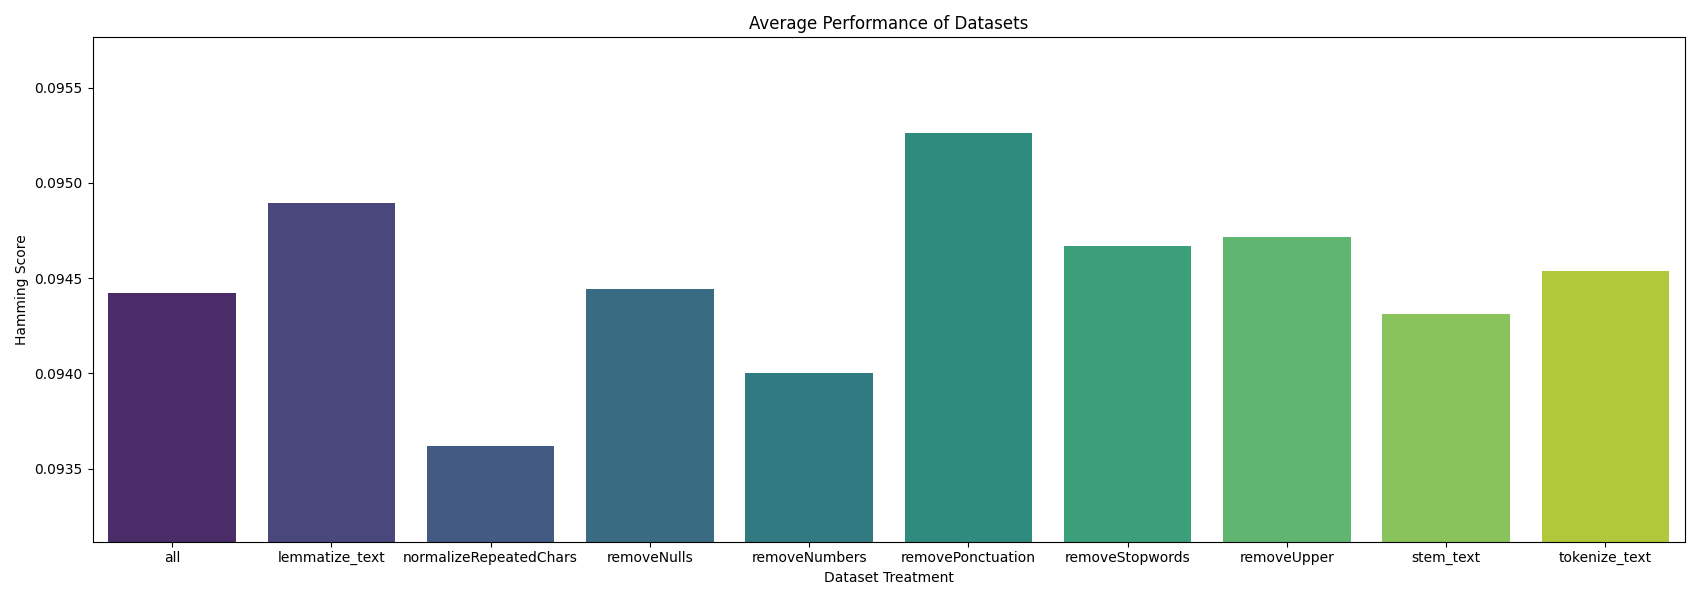
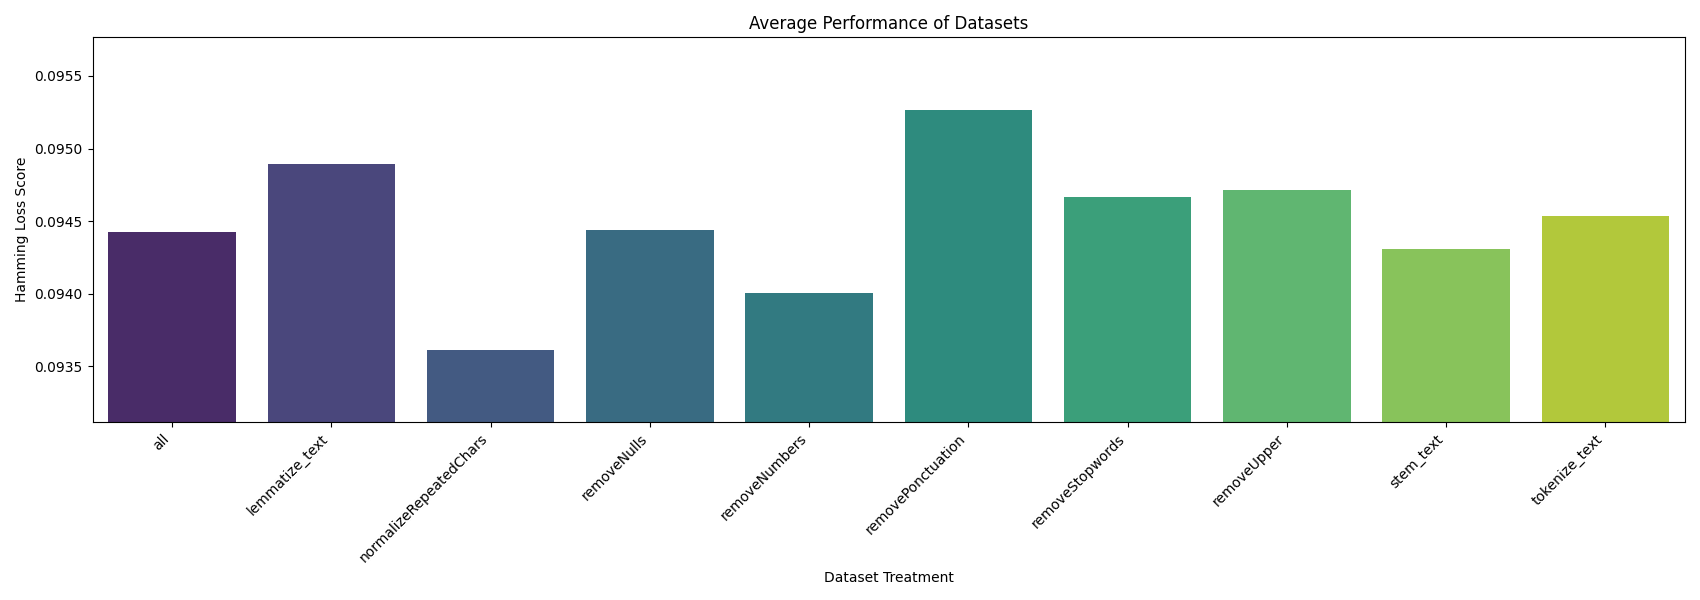
fixed labels on graphs

diff --git a/resultsAnalyse.py b/resultsAnalyse.py
@@ -134,29 +134,27 @@ def get_bar_graph_average_performance_of_datasets(df):
     plt.figure(figsize=(17, 6))
     sns.barplot(x='SAMPLING', y='HAMMING_LOSS', data=df, palette='viridis')
     plt.xlabel('Dataset Treatment')
-    plt.ylabel('Hamming Score')
+    plt.ylabel('Hamming Loss Score')
     plt.title('Average Performance of Datasets')
 
     # Set y-axis limits (lower limit set to 0.08)
-    plt.ylim(df['HAMMING_LOSS'].min()- 0.0005, df['HAMMING_LOSS'].max() + 0.00)  # Add a small margin to the upper limit
-
+    plt.ylim(df['HAMMING_LOSS'].min()- 0.0005, df['HAMMING_LOSS'].max() + 0.0005)  # Add a small margin to the upper limit
+    
+    plt.xticks(rotation=45, ha='right')
     plt.tight_layout()  # Ensure everything fits within the figure
     plt.savefig(f"plots/bar_graphs/dataset_performance.png")
-
 def get_bar_graph_average_performance_of_model(df):
     df = df.groupby("MODEL")[["ACCURACY","F1","RECALL","PRECISION","HAMMING_LOSS"]].mean().reset_index()
-
-
 
     # Plot the bar graph using seaborn
     plt.figure(figsize=(17, 6))
     sns.barplot(x='MODEL', y='HAMMING_LOSS', data=df, palette='viridis')
     plt.xlabel('model')
-    plt.ylabel('Hamming Score')
+    plt.ylabel('Hamming Loss Score')
     plt.title('Average Performance of Models')
 
     # Set y-axis limits (lower limit set to 0.08)
-    plt.ylim(df['HAMMING_LOSS'].min()- 0.01, df['HAMMING_LOSS'].max() + 0.01)  # Add a small margin to the upper limit
+    plt.ylim(df['HAMMING_LOSS'].min()- 0.01, df['HAMMING_LOSS'].max() + 0.01)  # Add a small margin to the upper limit«
 
     plt.xticks(rotation=45, ha='right')
     plt.tight_layout()  # Ensure everything fits within the figure
